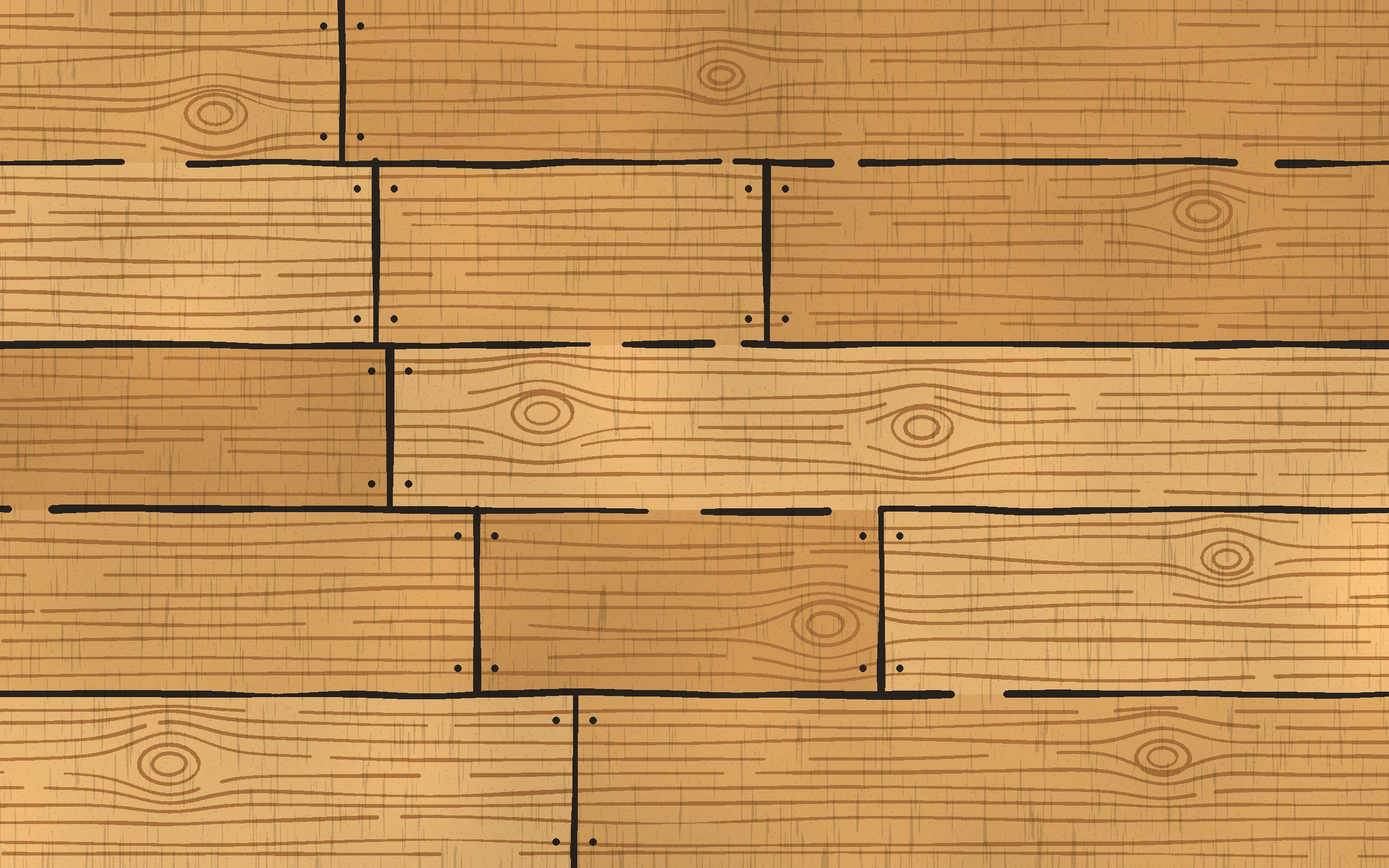
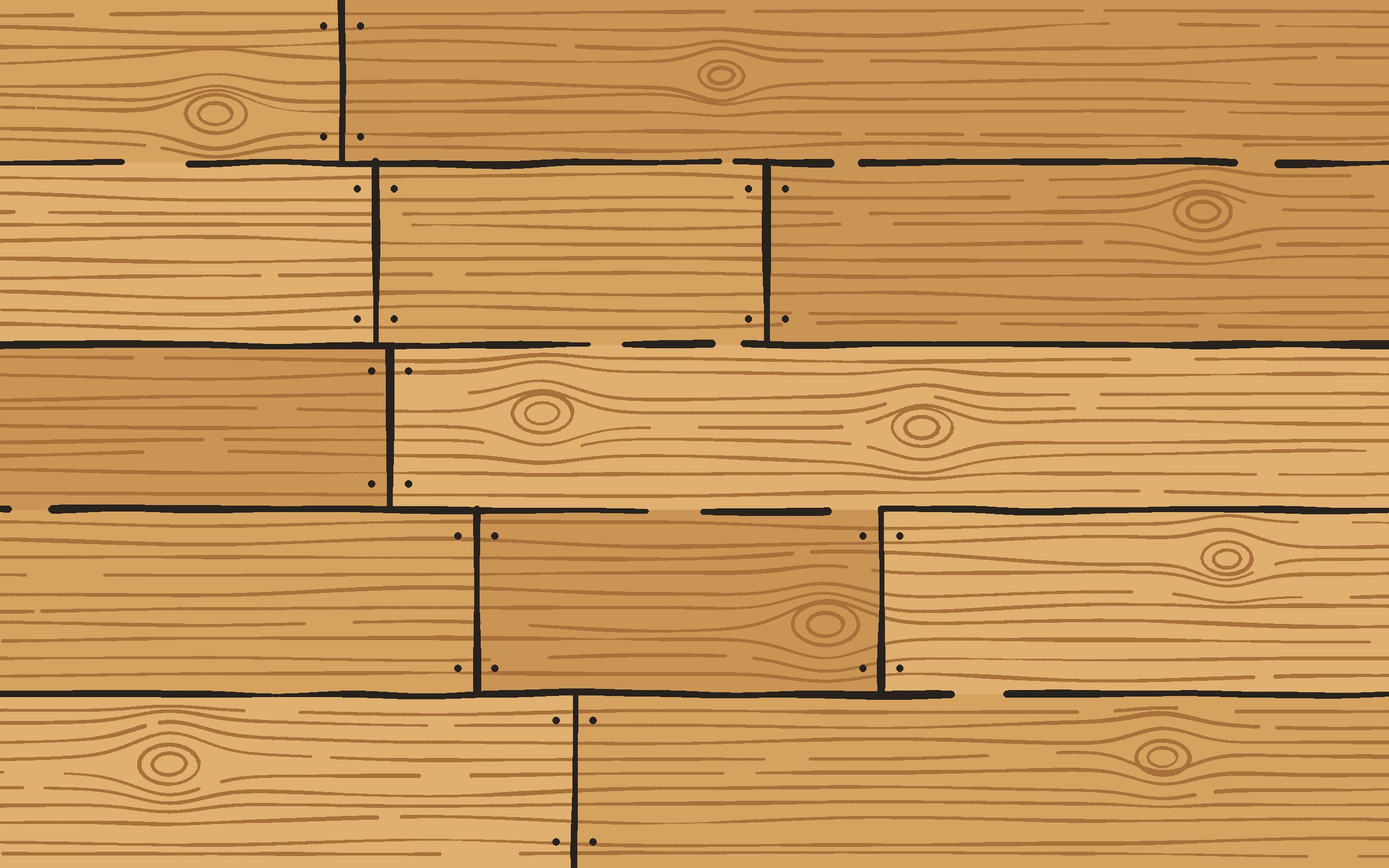
fix(maps): draw the desk without paper grain

diff --git a/build/maps/draw_maps.py b/build/maps/draw_maps.py
@@ -117,8 +117,13 @@ class Sheet:
     def ink_land(self, p, width=7):
         self.stroke(p, width)
 
-    def finish(self):
-        """Paper grain: fine scratches and speckle, darkening only."""
+    def finish(self, grain=True):
+        """Paper grain: fine scratches and speckle, darkening only.
+
+        grain=False skips it, for a drawing that is not paper (the desk).
+        """
+        if not grain:
+            return self.img.copy()
         a = np.asarray(self.img, np.float32)
         g = np.random.default_rng(11)
         streak = gaussian_filter(g.standard_normal(a.shape[:2]), (26, 1.1))

diff --git a/build/maps/draw_desk.py b/build/maps/draw_desk.py
@@ -73,7 +73,8 @@ def draw(tone, seed):
     for top in PLANK_TOPS[1:-1]:
         seam = s.wobble(np.array([(-30, top), (W + 30, top)], float), 1.5, closed=False)
         s.stroke(seam, SEAM, closed=False)
-    return s.finish()
+    # Wood, not paper: the sheets' paper grain would read as a print on it.
+    return s.finish(grain=False)
 
 
 def main():
